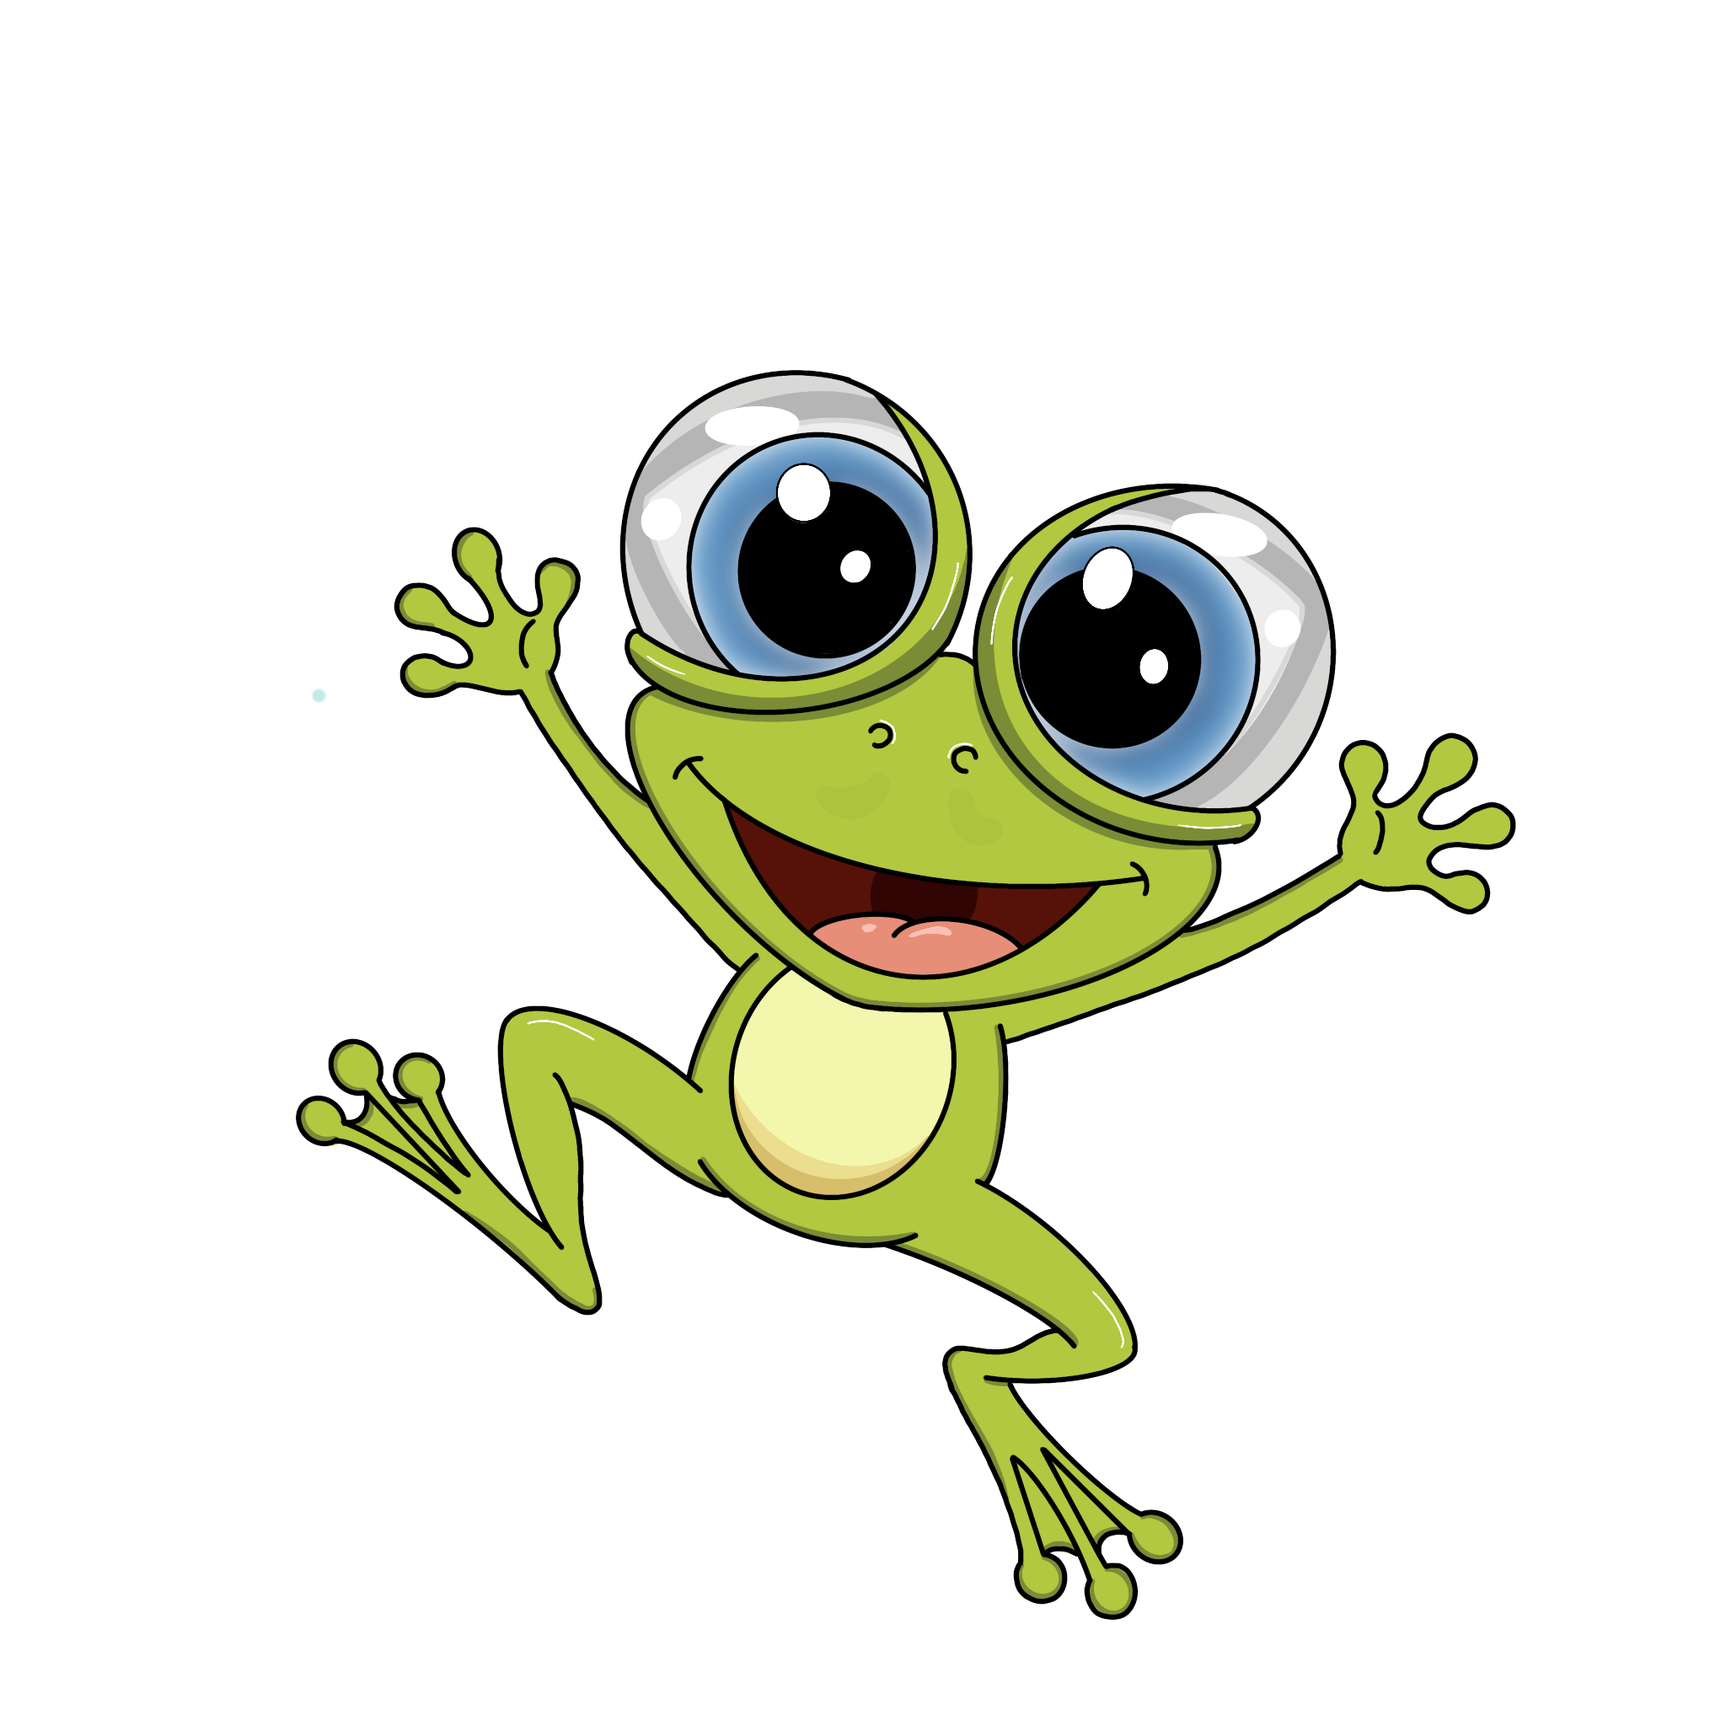
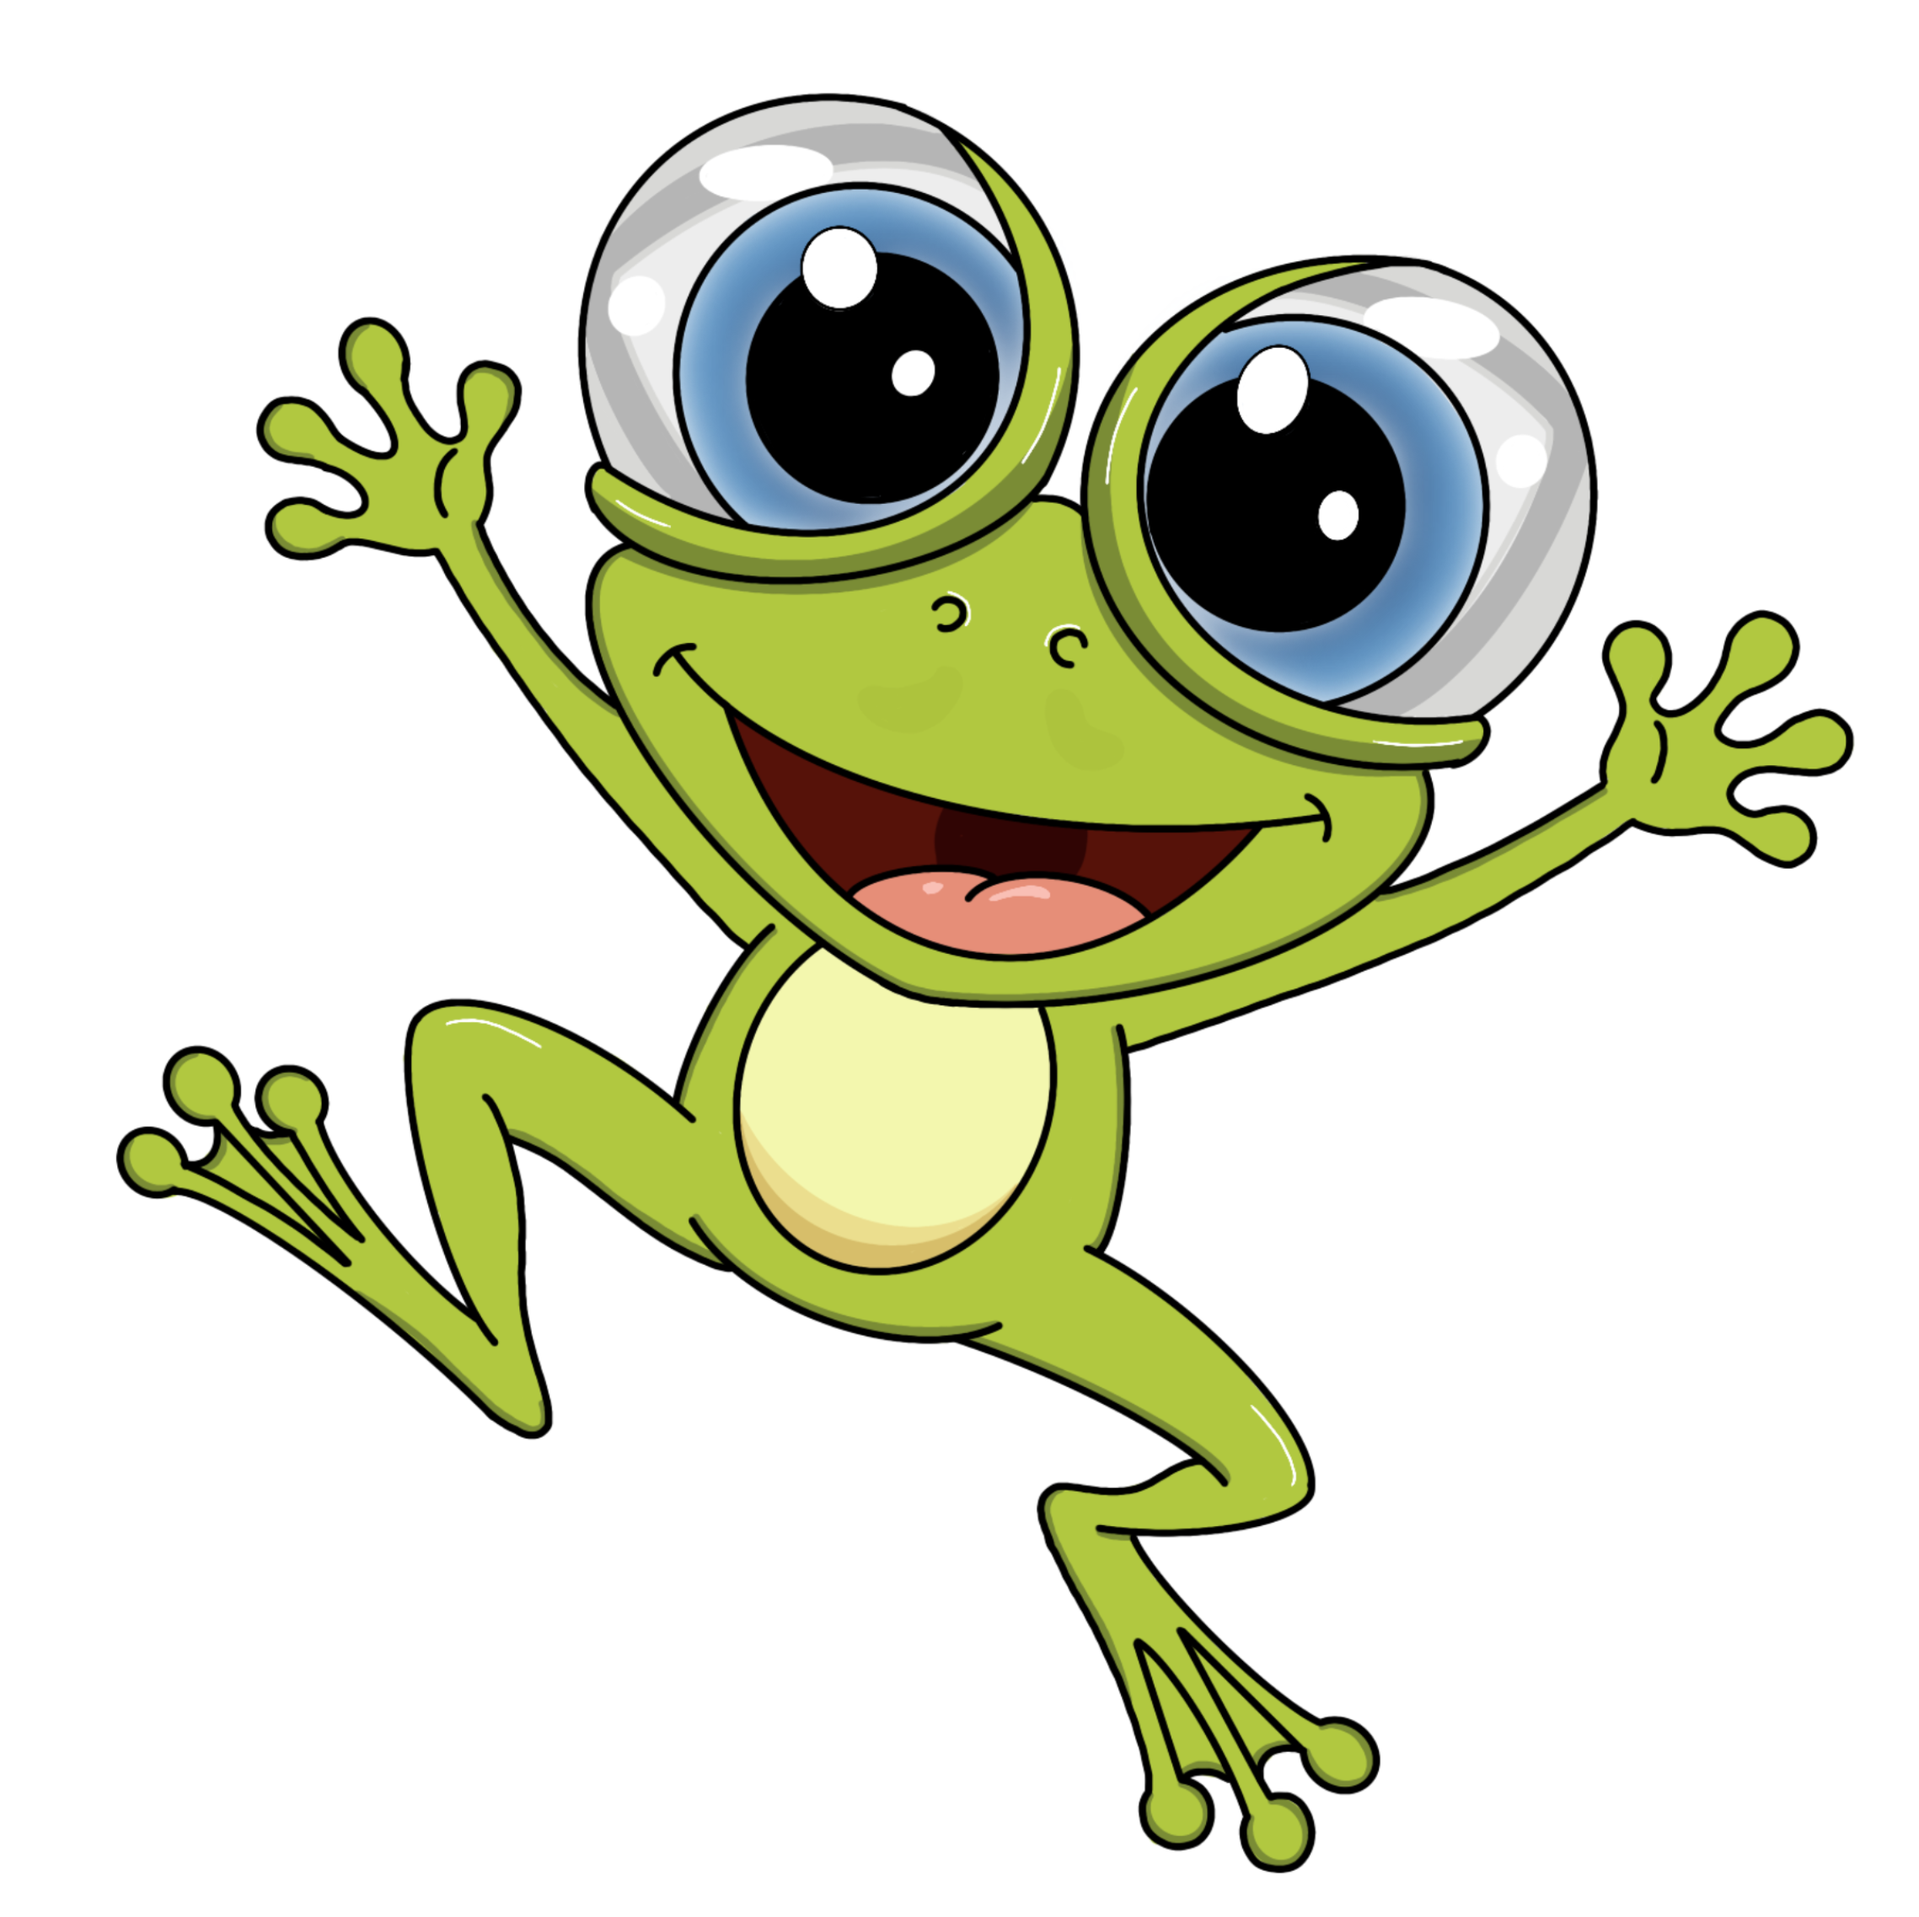
cambiame la imagen de YARA_3.png de la estación 8 por la imagen Rana.png

Changed region(s): [[0.0625, 0.0312, 0.9688, 1.0]]

diff --git a/src/app/components/challenges/Station8.tsx b/src/app/components/challenges/Station8.tsx
@@ -171,7 +171,7 @@ export default function Station8() {
   const yaraMessage = "¡Has llegado a Vitalia! La energía del sol, del viento y del agua nos impulsa hacia un futuro más limpio. Recarga tu energía, comparte tu luz y sigue construyendo un planeta lleno de vida. ¡Tu fuerza también renueva el mundo!";
   const yaraTimerRef = useRef<NodeJS.Timeout | null>(null);
   
-  const yaraCharImage = PlaceHolderImages.find((p) => p.id === 'char-yara-3');
+  const yaraCharImage = PlaceHolderImages.find((p) => p.id === 'char-yara');
 
   const scheduleYaraDialog = useCallback(() => {
     if (yaraTimerRef.current) clearTimeout(yaraTimerRef.current);
